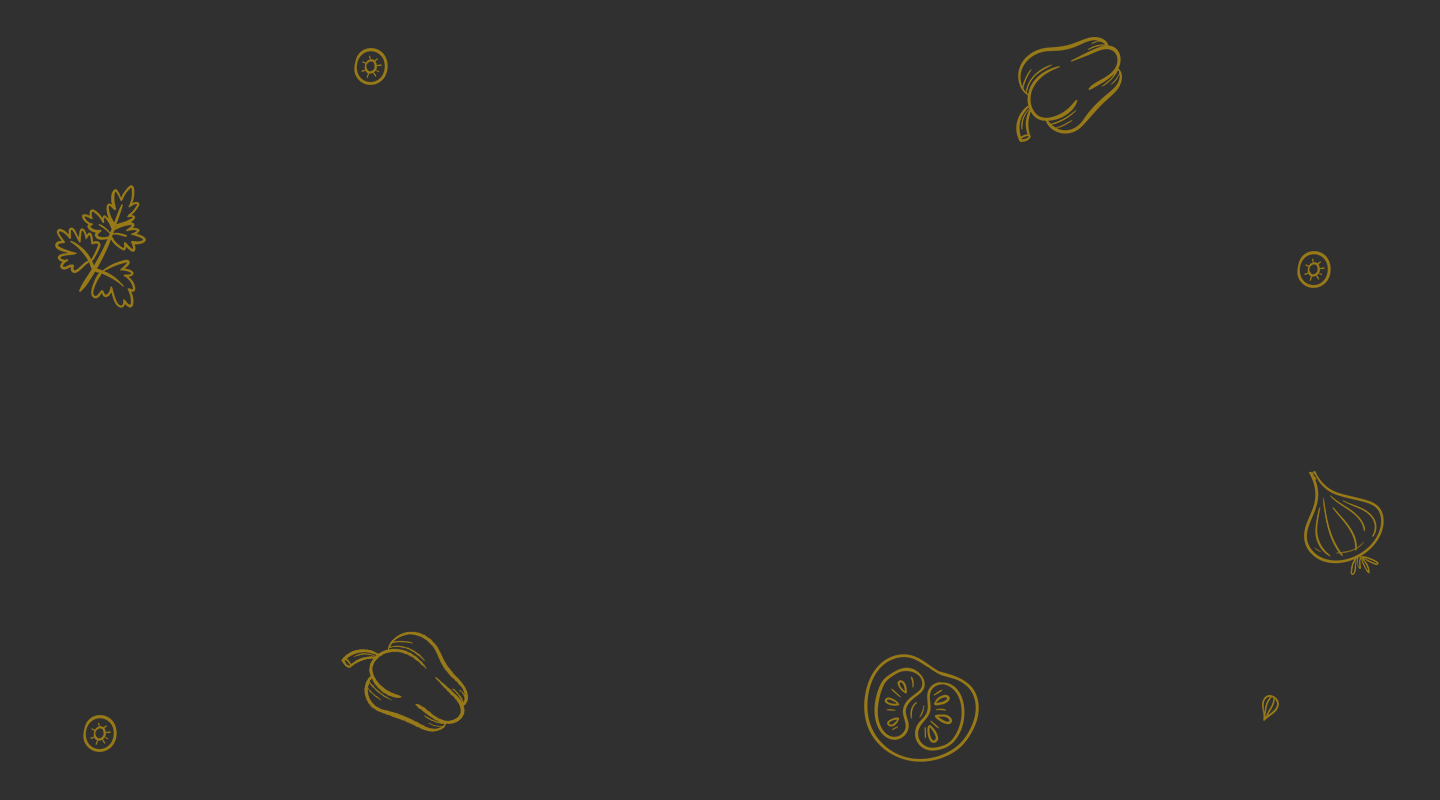
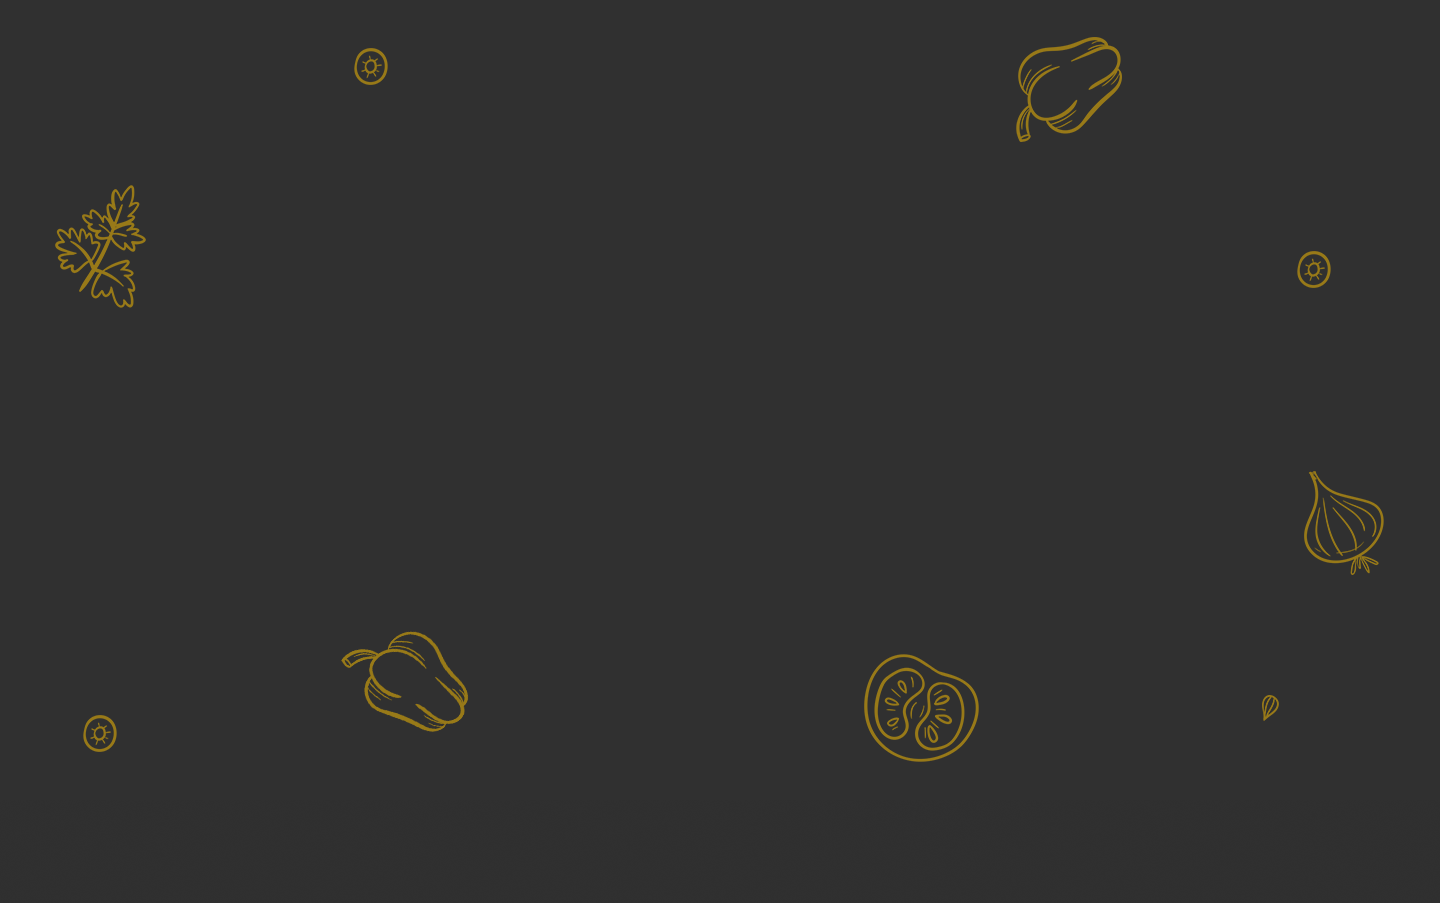
add section statistics, restore background img

diff --git a/src/style/section/statistics.scss b/src/style/section/statistics.scss
@@ -1,0 +1,47 @@
+.statistics {
+    padding: 120px 0 190px 0;
+    background-color: gray;
+    background-image: url("/src/img/Statistics-background.png");
+    background-repeat: no-repeat;
+    background-size: cover;
+
+    &>h1 {
+        font-size: 6rem;
+        margin: 0;
+        font-weight: 100;
+    }
+
+    &>p {
+        font-size: 1.555rem;
+        margin: 30px 350px 0 350px;
+        color: white;
+    }
+
+    &-category {
+        margin-top: 90px;
+        justify-content: space-between;
+        flex-wrap: wrap;
+
+        &>div {
+            flex-direction: column;
+            width: 240px;
+            height: 240px;
+            background: transparent;
+            border: 4px solid white;
+            border-radius: 50%;
+
+            &>:first-child {
+                color: $color-statistics;
+                font-weight: bold;
+                font-size: 3.55rem;
+            }
+            
+            &>:last-child {
+                font-weight: bold;
+                color: white;
+                font-size: 2rem;
+            }
+        }
+    }
+
+}

diff --git a/src/style.scss b/src/style.scss
@@ -11,3 +11,4 @@
 @import "./style/section/best-seller.scss";
 @import "./style/section/oriental-taste.scss";
 @import "/src/style/global/containers-title.scss";
+@import "/src/style/section/statistics.scss";

diff --git a/src/style/global/var.scss b/src/style/global/var.scss
@@ -4,5 +4,6 @@ $backgroundColor-main: #303030;
 $color-button: #ffc200;
 $color-title-big: #ffc200;
 $color-active: #ffc200;
+$color-statistics :#ffc200;
 $color-title: #333333;
 $width-page :1300px;
